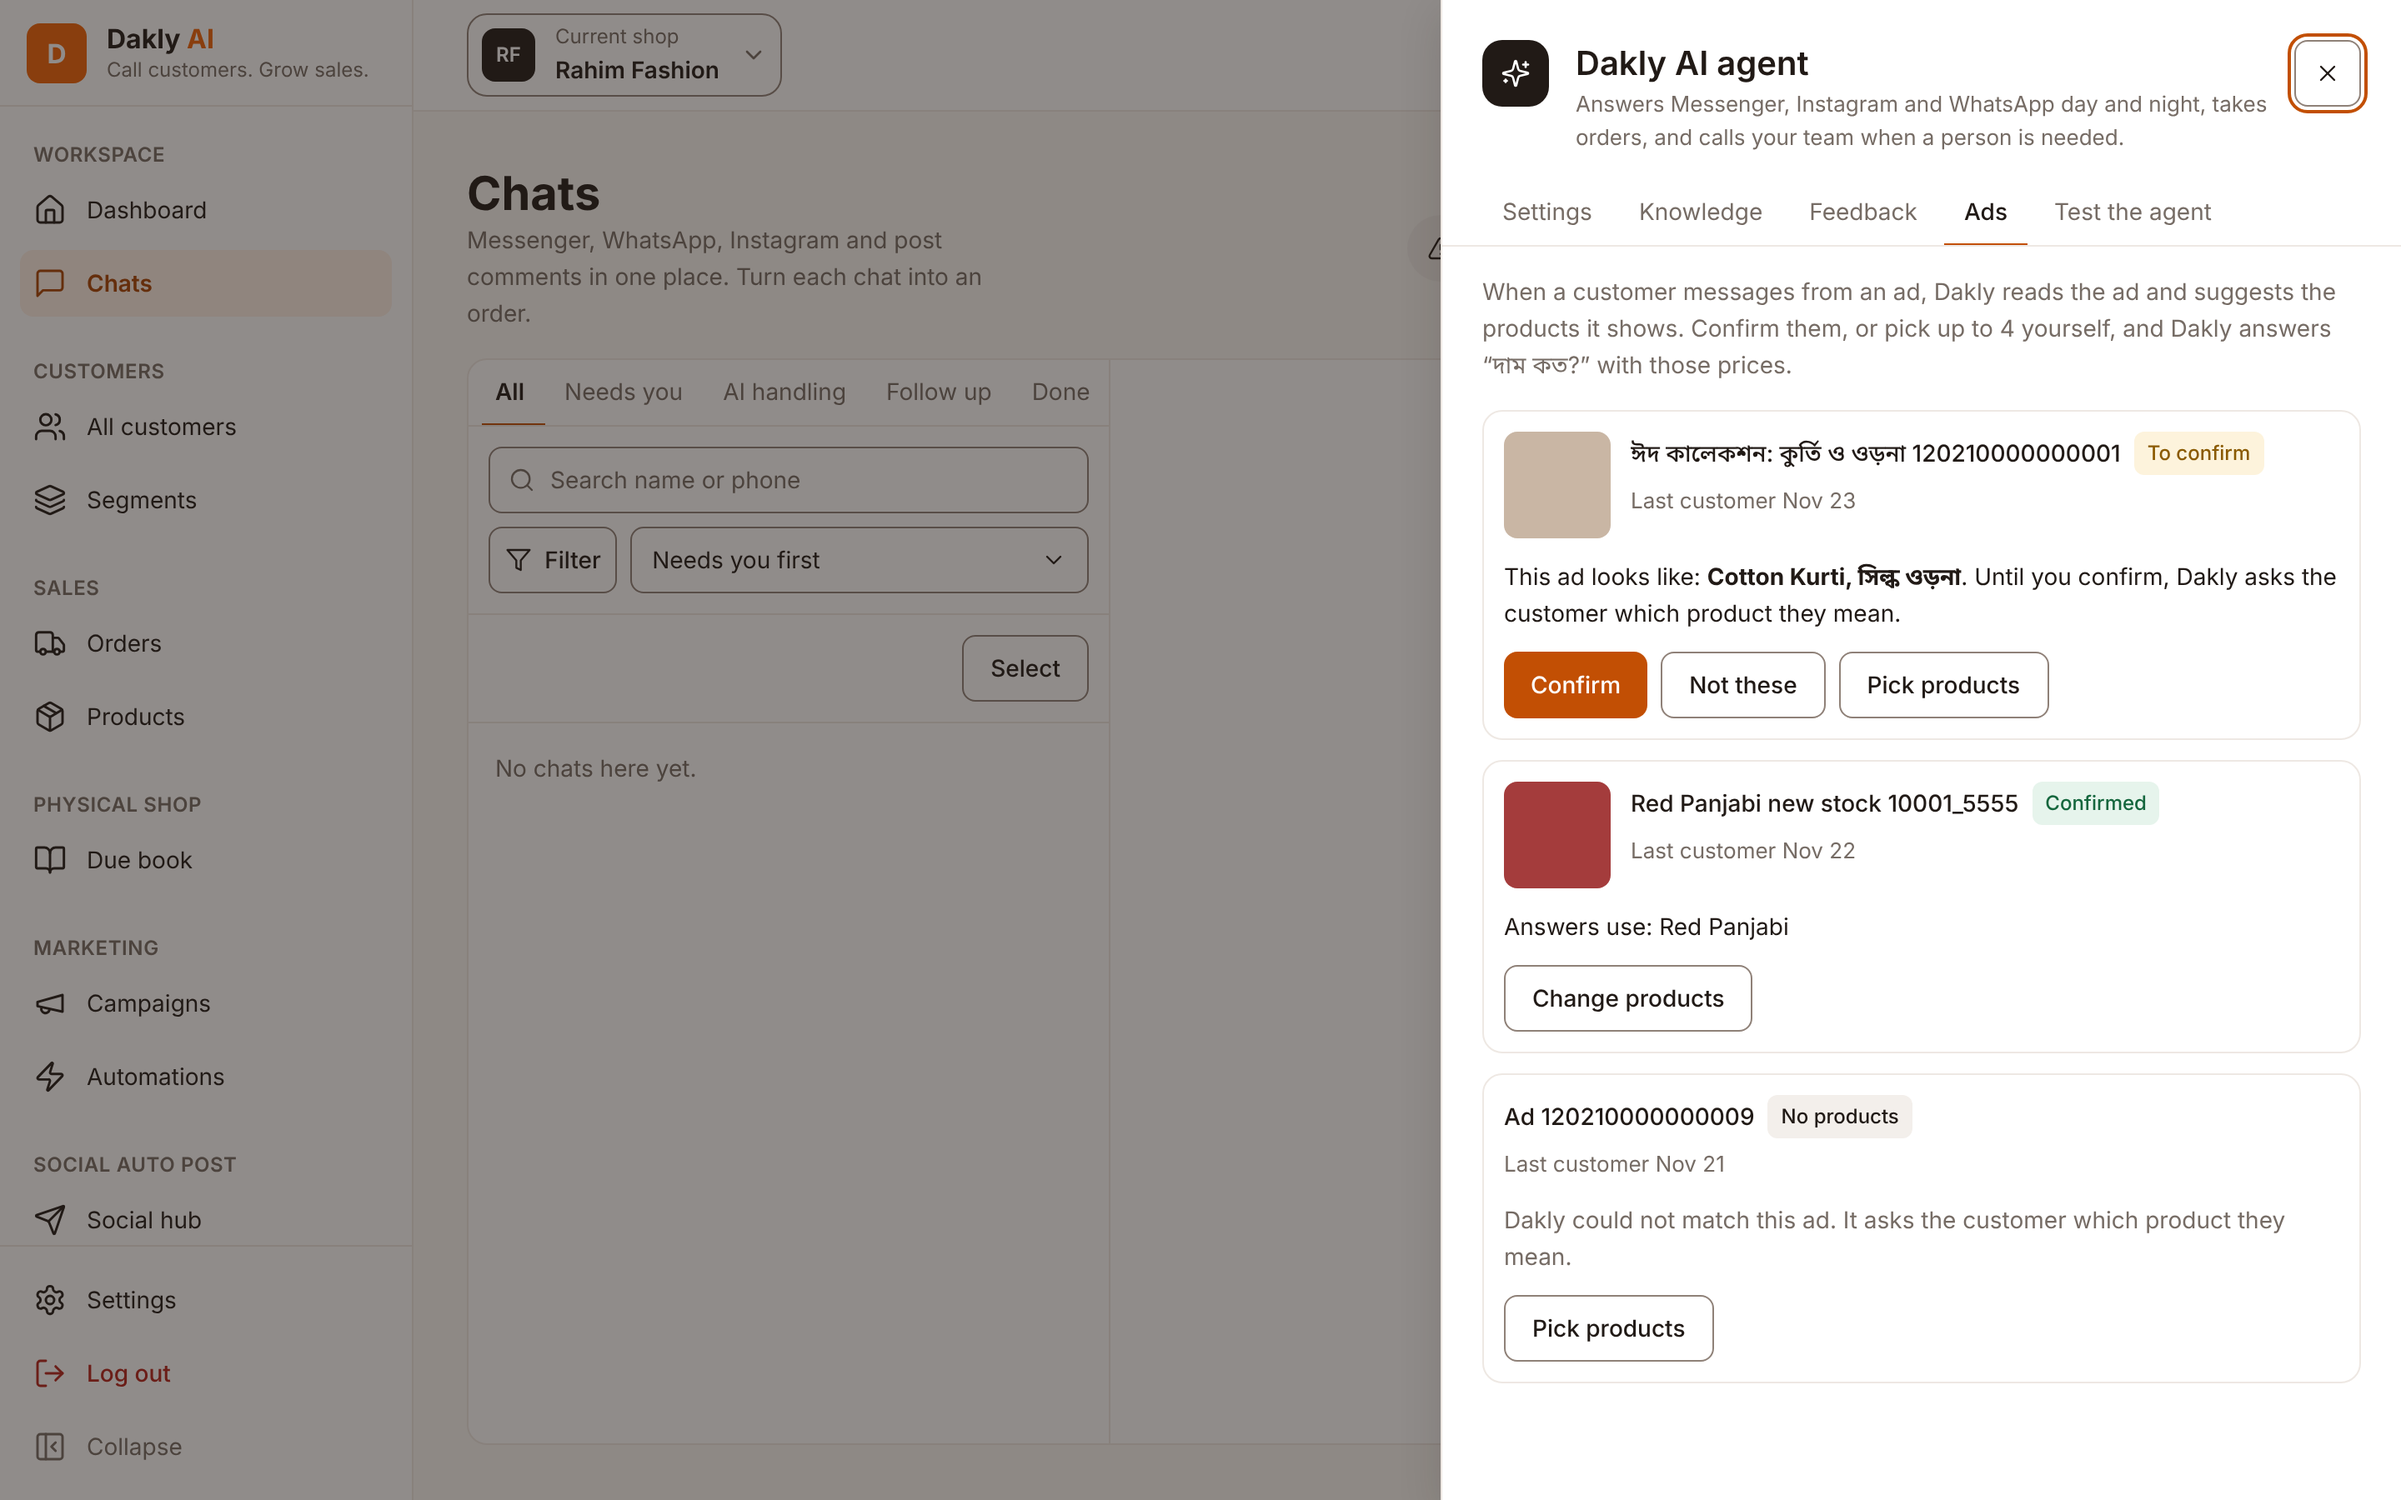
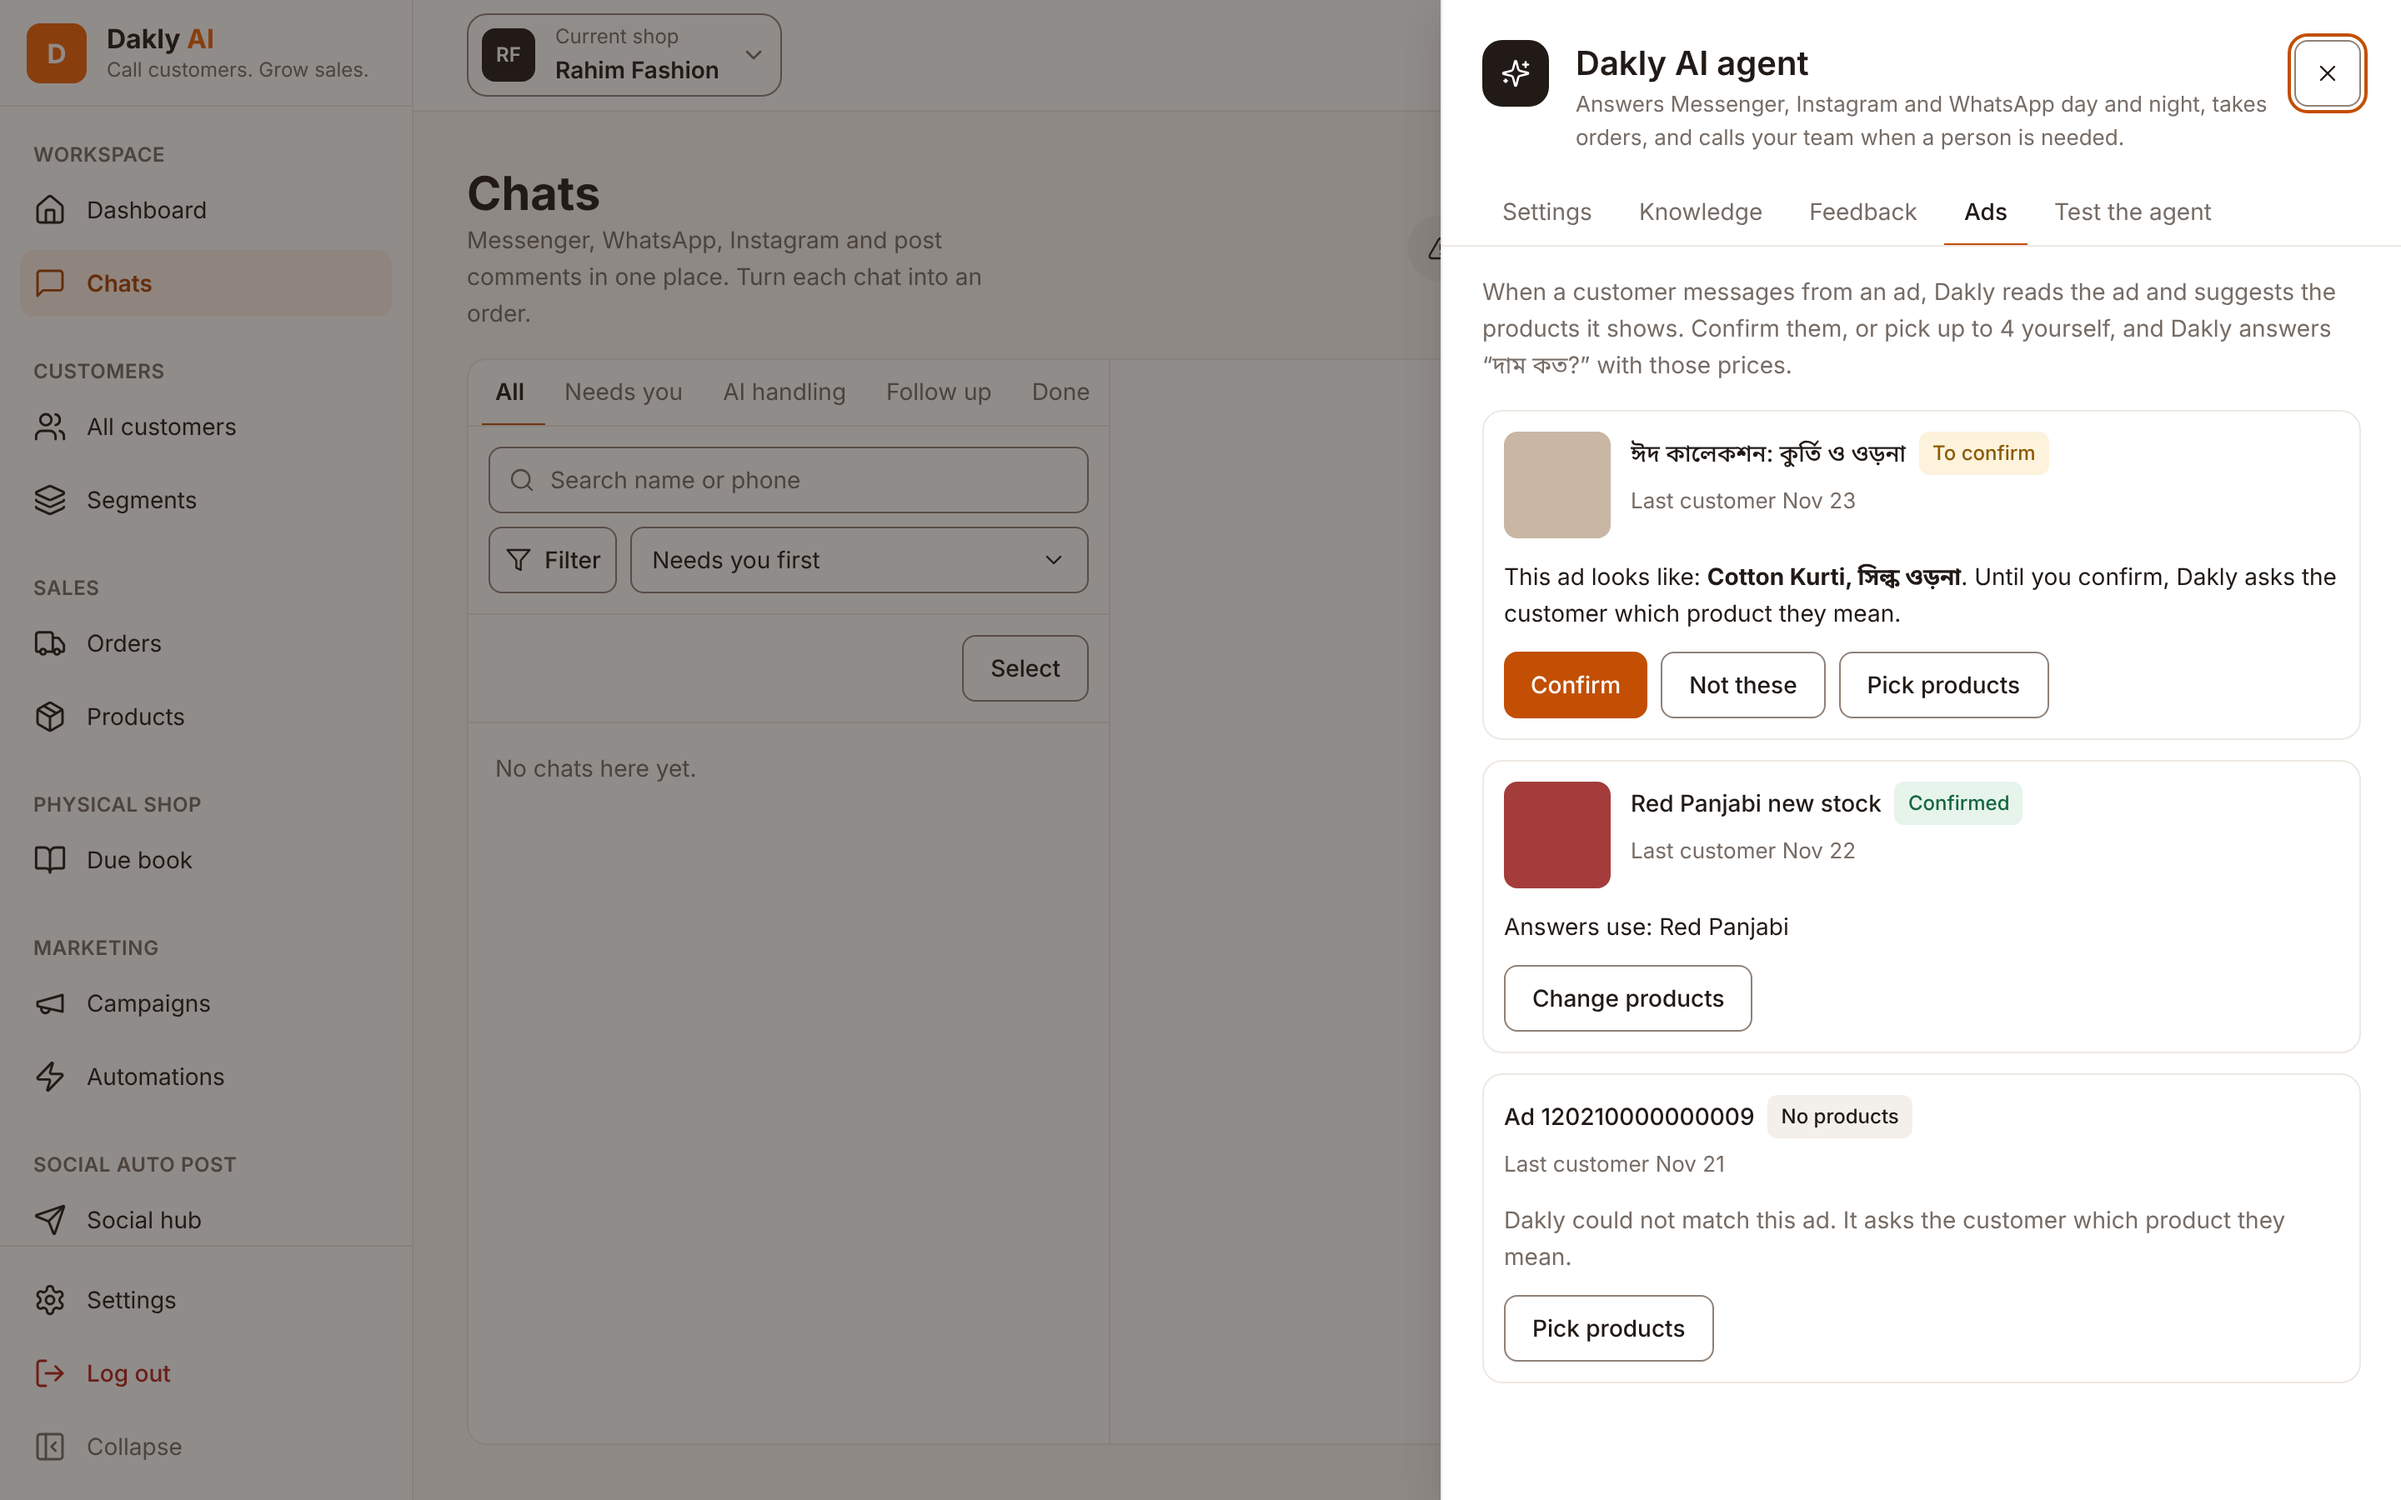
feat(ai-28): show the ad id only when the ad has no title

Changed region(s): [[0.7812, 0.4978, 0.9062, 0.56], [0.7812, 0.28, 0.9688, 0.3422]]

diff --git a/apps/web/src/features/chats/components/ads-tab.tsx b/apps/web/src/features/chats/components/ads-tab.tsx
@@ -88,7 +88,7 @@ function AdCard({ ad, canEdit }: { ad: AdListItem; canEdit: boolean }) {
         <div className="min-w-0 flex-1 space-y-1">
           <div className="flex items-center gap-2">
             <span className="truncate font-medium">
-              {ad.title ?? (ad.source === 'ad' ? 'Ad' : 'Post')} {ad.externalId}
+              {ad.title ?? `${ad.source === 'ad' ? 'Ad' : 'Post'} ${ad.externalId}`}
             </span>
             <Badge variant={statusVariants[ad.status]} className="shrink-0 whitespace-nowrap">
               {statusLabels[ad.status]}
